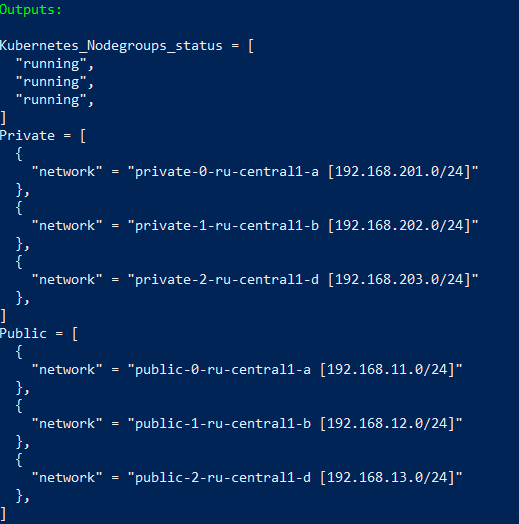
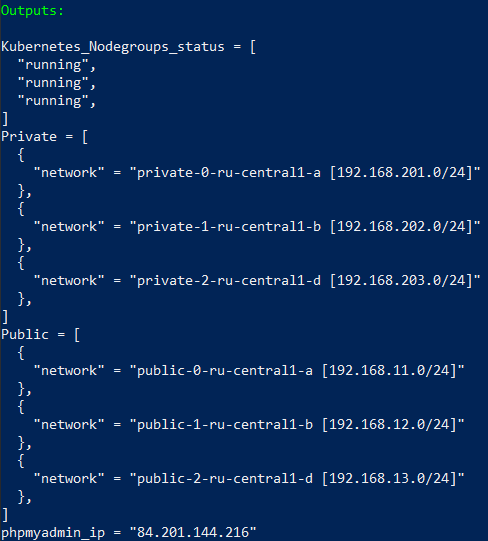
правка описания 8-cloudproviders-4-cluster

diff --git a/8-cloudproviders-4-cluster/readme.md b/8-cloudproviders-4-cluster/readme.md
@@ -118,12 +118,17 @@ __Результаты:__
     ![Созданные группы узлов](images/k8s-node-groups-01.png)
 
 
-3. Подключение к Kubernetes-кластеру
+    Доступ к приложению `phpmyadmin` с БД 'netology_db':
+
+    ![Приложение phpmyadmin](images/phpmyadmin-01.png)
+
+
+3. Подключение к Kubernetes-кластеру _( *альтернативный сценарий)_
 
     1. Добавление контекста нового кластера
 
         ```
-        yc managed-kubernetes cluster get-credentials --name k8s-regional-cluster --internal
+        yc managed-kubernetes cluster get-credentials --name k8s-regional-cluster --external
         ```
     
     2. Просмотр доступных контекстов и выбор контекста по умолчанию
